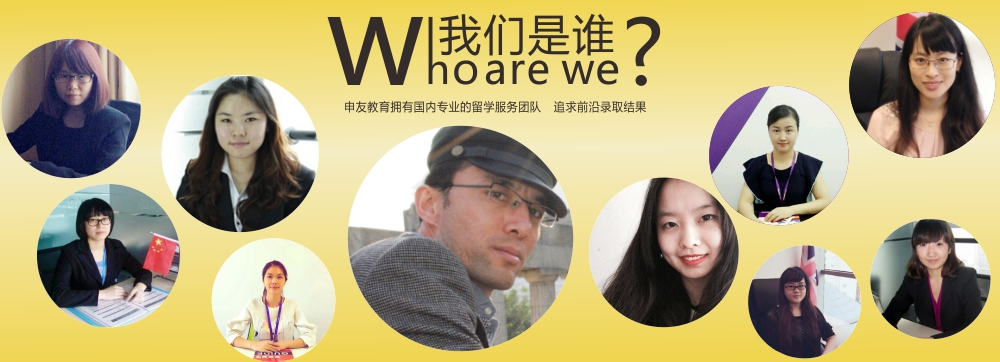
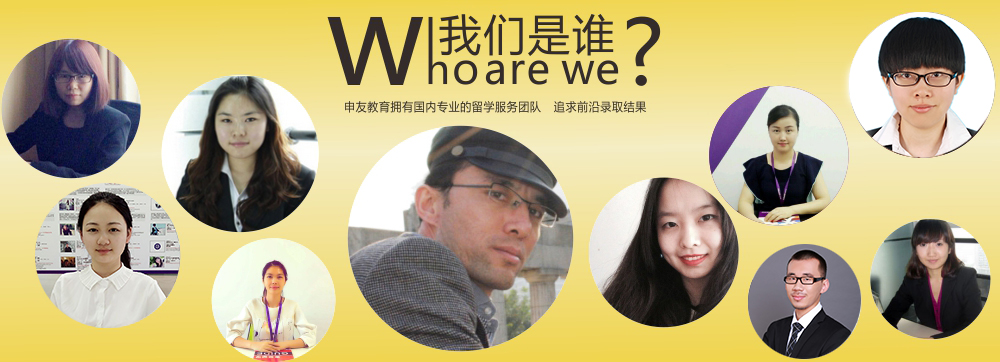
页面 优化

diff --git a/web/cn/Hirsi/css/index.css b/web/cn/Hirsi/css/index.css
@@ -231,6 +231,7 @@ input.search {
 .banner li a{
     width: 100%;
     height: 100%;
+    background: #000000;
     display: block;
 }
 .slideBox .hd {
@@ -266,7 +267,7 @@ input.search {
 }
 
 .text-wrap {
-    margin-top: 16px;
+    margin-top: 14px;
     padding: 12px 27px;
     background: rgba(51, 80, 159, 0.45);
     border-radius: 15px;
@@ -275,13 +276,15 @@ input.search {
 
 .info-tit {
     font-weight: normal;
-    font-size: 16px;
+    font-size: 14px;
     padding-left: 5px;
     color: #ffffff;
     padding-bottom: 10px;
 }
 
 h1.info-tit {
+    font-weight: bold;
+    font-size: 24px;
     margin-bottom: 10px;
     border-bottom: 1px solid #ffffff;
 }
@@ -290,11 +293,11 @@ h1.info-tit {
     border: none;
     outline: none;
     padding: 0 10px;
-    height: 30px;
+    height: 28px;
     width: 235px;
     margin-left: 5px;
-    line-height: 30px;
-    font-size: 14px;
+    line-height: 28px;
+    font-size: 12px;
     color: #999999;
     border-radius: 5px;
     margin-bottom: 10px;
@@ -326,14 +329,14 @@ h1.info-tit {
 
 .info-btn {
     cursor: pointer;
-    font-size: 16px;
+    font-size: 20px;
     color: #ffffff;
-    line-height: 30px;
+    line-height: 40px;
     margin-top: 5px;
     border: 1px solid #ffffff;
     font-weight: bold;
     background: #35CD69;
-    border-radius: 16px;
+    border-radius: 30px;
 }
 
 .info-btn:hover {
@@ -667,7 +670,7 @@ h1.info-tit {
     margin-left: -27px;
     top: 50%;
     margin-top: -27px;
-    z-index: 999;
+    z-index: 7;
     line-height: 54px;
     background: #ffffff;
     border-radius: 50%;

diff --git a/web/cn/css/StudyAbroadProducts.css b/web/cn/css/StudyAbroadProducts.css
@@ -162,7 +162,7 @@
     position: relative;
 }
 .common-cL{
-    width: 630px;
+    width: 660px;
     float: left;
     background: #eeeeee;
     padding: 23px 0 16px 0;
@@ -171,10 +171,12 @@
 
 .common-cL ul li{
     border-bottom: 2px #cacaca dashed;
-    padding: 10px 77px 10px 9px;
+    /*padding: 10px 77px 10px 9px;*/
+    padding: 10px 0px 10px 115px;
 }
 .paddL ul li{
-    padding: 12px 77px 12px 9px;
+    /*padding: 12px 77px 12px 9px;*/
+    padding: 12px 0px 12px 115px;
 }
 .common-cL ul li img{
     width: 10px;
@@ -189,7 +191,7 @@
     float: left;
 }
 .common-cR{
-    width: 370px;
+    width: 340px;
     float: left;
     background: #8c8c8c;
     padding: 23px 0 16px 0;
@@ -198,7 +200,8 @@
 }
 .common-cR ul li{
     border-bottom: 2px white dashed;
-    padding: 10px 0 10px 84px;
+    /*padding: 10px 0 10px 84px;*/
+    padding: 10px 10px 10px 40px;
 }
 .yellowDiv{
     width: 113px;
@@ -206,8 +209,9 @@
     background-size: 100% 100%;
     padding: 10px 0 26px 0;
     position: absolute;
-    right: 313px;
+    /*right: 313px;*/
     top: 15px;
+    left: 0;
 }
 
 .yellowDiv ul li{
@@ -340,7 +344,7 @@
 .succBr-bd ul li{
     height: 20px;
     color: white;
-   white-space:nowrap; overflow:hidden; text-overflow:ellipsis;
+    white-space:nowrap; overflow:hidden; text-overflow:ellipsis;
 }
 .succBr-bd ul li a{
     color: white;
@@ -381,6 +385,7 @@
     display: none;
 }
 .whoUs>ul>li>div>div>h4{
+    color: #ffffff;
     margin-top: 50%;
     font-weight: normal;
 }

diff --git a/web/cn/css/gmatSheet.css b/web/cn/css/gmatSheet.css
@@ -496,7 +496,11 @@
 }
 
 .summerBd ul li>span{
+    color: #ffffff;
     font-size: 16px;
+}
+.summerBd ul li>p{
+    color: #ffffff;
 }
 .summerTop{
     width: 140px;
@@ -543,6 +547,7 @@
     margin-top: 60px;
 }
 .summer-mask p{
+    color: #ffffff;
     font-size: 20px;
     margin-top: 75px;
 }
@@ -982,6 +987,7 @@
     -webkit-box-sizing: border-box;
     margin-top: 10px;
     font-size: 12px;
+
 }
 .whiteRes p{
     text-overflow: ellipsis;
@@ -992,6 +998,7 @@
     -moz-line-clamp: 5;
     -webkit-box-orient: vertical;
     -moz-box-orient: vertical;
+    height: 80px;
 }
 .dynamic{
     width: 990px;

diff --git a/modules/cn/views/study/abroadProducts.php b/modules/cn/views/study/abroadProducts.php
@@ -82,7 +82,7 @@
                 <h4>申友留学“非中介”服务优势</h4>
             </div>
             <div class="common-t">
-                <img src="/cn/images/products_PKicon.png" alt="pk图标">
+<!--                <img src="/cn/images/products_PKicon.png" alt="pk图标">-->
                 <div class="commonT-left">申友留学和传统中介的区别</div>
                 <div class="commonT-right">传统中介</div>
             </div>
@@ -141,7 +141,7 @@
             <!----------------------第二个----------------------->
 
             <div class="common-t">
-                <img src="/cn/images/products_PKicon.png" alt="pk图标">
+<!--                <img src="/cn/images/products_PKicon.png" alt="pk图标">-->
                 <div class="commonT-left">申友留学和普通“咨询”公司的区别</div>
                 <div class="commonT-right">普通“咨询”公司</div>
             </div>
@@ -448,9 +448,9 @@
             </li>
             <li>
                 <div class="circle05 LeOrR5">
-                    <img src="/cn/images/products_teacher03.png" alt="老师头像"/>
+                    <img src="/cn/images/products_teacher03.jpg" alt="老师头像"/>
                     <div>
-                        <h4>Ada</h4>
+                        <h4>Natasha</h4>
                     </div>
                 </div>
             </li>
@@ -464,9 +464,9 @@
             </li>
             <li>
                 <div class="circle01 LeOrR12">
-                    <img src="/cn/images/products_teacher06.png" alt="老师头像"/>
+                    <img src="/cn/images/products_teacher06.jpg" alt="老师头像"/>
                     <div>
-                        <h4>Eve</h4>
+                        <h4>Zora</h4>
                     </div>
                 </div>
             </li>
@@ -496,9 +496,9 @@
             </li>
             <li>
                 <div class="circle05 LeOrR52">
-                    <img src="/cn/images/products_teacher08.png" alt="老师头像"/>
+                    <img src="/cn/images/products_teacher08.jpg" alt="老师头像"/>
                     <div>
-                        <h4>Jenny</h4>
+                        <h4>Bob</h4>
                     </div>
                 </div>
             </li>

diff --git a/modules/cn/views/ieltssheet/index.php b/modules/cn/views/ieltssheet/index.php
@@ -213,21 +213,6 @@
         </div>
         <ul class="teach-list clearfix">
             <li>
-                <div><img src="/cn/ielts/images/c1.png" alt=""></div>
-                <p class="c4-name">Kevin Ni</p>
-                <p class="c4-de">
-                    申友雅思联合创始人，国内较早一批雅
-                    思教师，行业内的联合创始人。多次走访海外名校，
-                    与招生官交流。长期专注雅思考试研究，洞悉雅
-                    思题型，培养雅思学生过万，遍布世界名校。期
-                    间研发和出版多本留学英语培训教材，并不断优
-                    化教学方法。
-
-                </p>
-                <a class="btn-2" target="_blank"
-                   href="http://p.qiao.baidu.com/im/index?siteid=6058744&ucid=3827656&cp=&cr=&cw=">约课</a>
-            </li>
-            <li>
                 <div><img src="/cn/ielts/images/c2.png" alt=""></div>
                 <p class="c4-name">Amanda Dai</p>
                 <p class="c4-de">
@@ -250,6 +235,15 @@
                     谙雅思考试技法，为广大考生带来福音。以缜密
                     的工科思维和批判式的文科思维穿行于雅思讲堂，
                     深受学生亲睐。
+                </p>
+                <a class="btn-2" target="_blank"
+                   href="http://p.qiao.baidu.com/im/index?siteid=6058744&ucid=3827656&cp=&cr=&cw=">约课</a>
+            </li>
+            <li>
+                <div><img src="/cn/ielts/images/c5.png" alt=""></div>
+                <p class="c4-name">Vicky Jiang</p>
+                <p class="c4-de">
+                    英国南安普顿大学硕士，国内英专毕业，在国外学习期间对英语思维及表达方式建立了浓厚的兴趣和深刻的了解，对雅思口语和听力的独到见解让人印象深刻，上课风格活泼，教学幽默，深受学生喜爱。主讲雅思口语和听力。
                 </p>
                 <a class="btn-2" target="_blank"
                    href="http://p.qiao.baidu.com/im/index?siteid=6058744&ucid=3827656&cp=&cr=&cw=">约课</a>

diff --git a/modules/cn/views/index/index.php b/modules/cn/views/index/index.php
@@ -298,9 +298,9 @@
             </select>
             <p class="info-tit">我计划出国的时间：</p>
             <select class="info-select" name="data" id="data">
-                <option value="半年内">半年内</option>
-                <option value="一年内">一年内</option>
-                <option value="两年内">两年内</option>
+                <option value="2017年春季入学">2017年春季入学</option>
+                <option value="2017年秋季入学">2017年秋季入学</option>
+                <option value="2018年入学">2018年入学</option>
             </select>
             <h1 onclick="lxfa()" class="info-btn tm">获取我定制专属方案</h1>
         </div>
